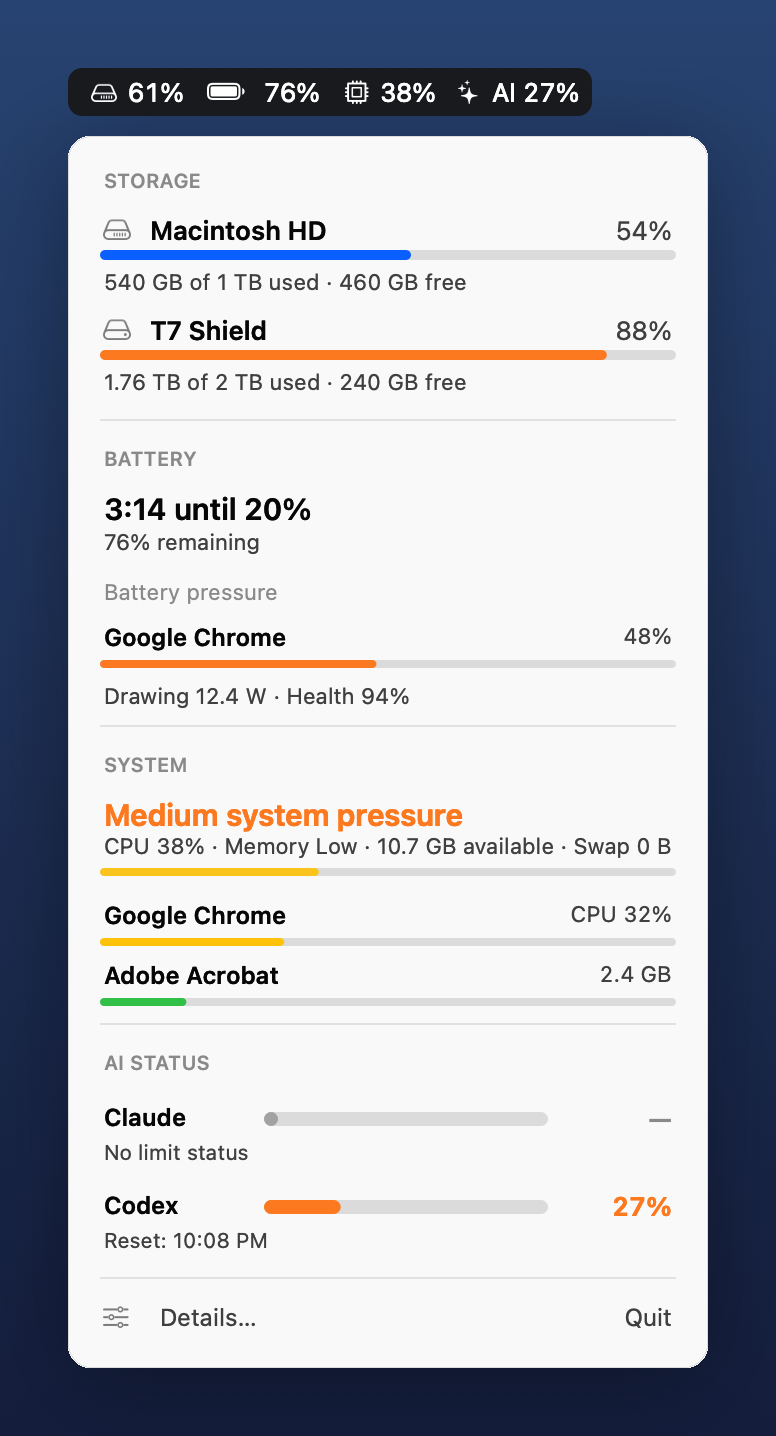
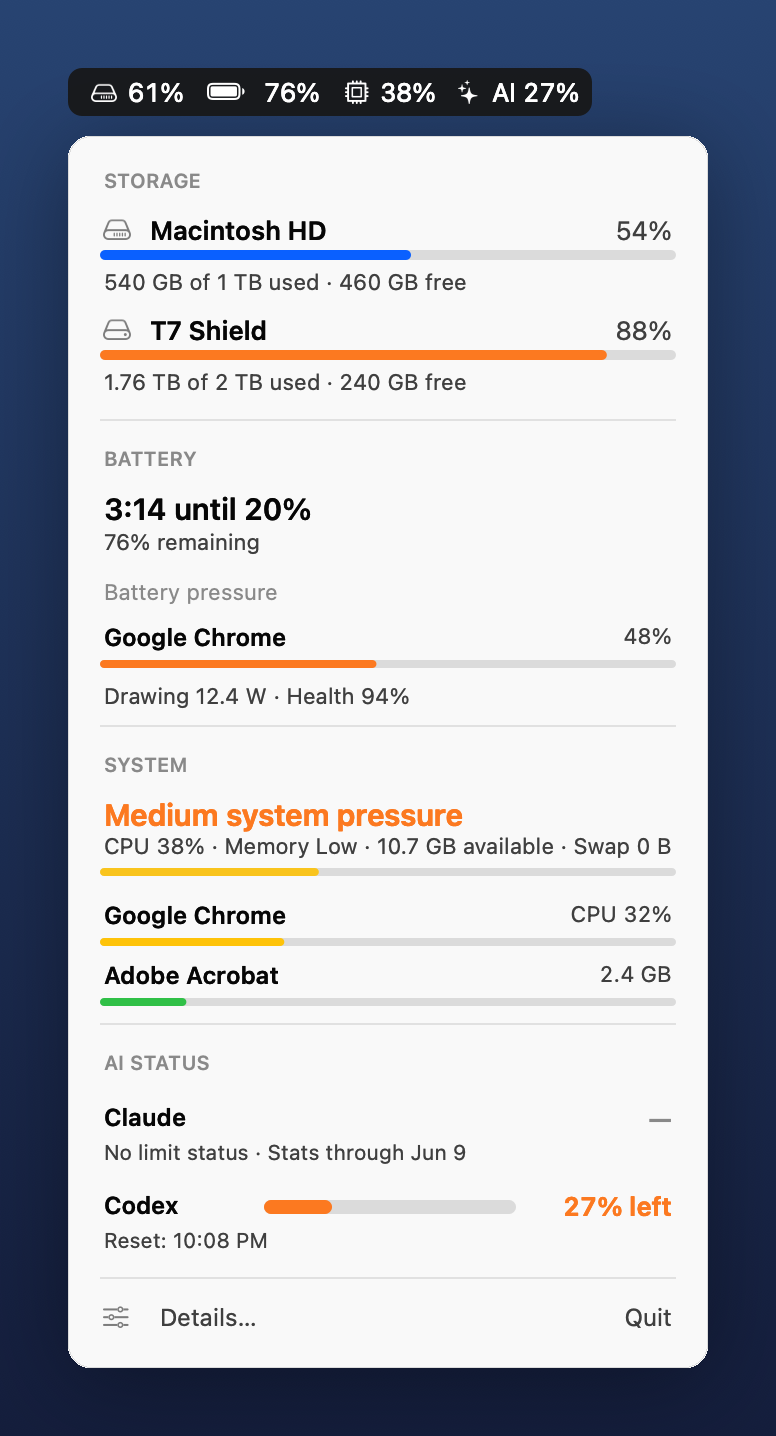
Make AI numbers human-meaningful and the limit gauge unambiguous
The verified-correct total_tokens count is ~94% cached context re-reads
(measured: 209.6M total vs 12.4M fresh today), so it failed the sniff
test as a headline. Today/7d now report fresh tokens (non-cached input
+ output) with the cache-inclusive total alongside in Details and
--dump.

The limit gauge read backwards: a bare '10%' next to a nearly-empty bar
looks like 10% used. The reading is now labeled '10% left', providers
with no limit data get no gauge instead of an empty one, and Claude's
popover row surfaces its stats-cache staleness ('Stats through Jun 9')
instead of hiding it in Details.

Changed region(s): [[0.3402, 0.766, 0.7113, 0.8273], [0.6495, 0.8273, 0.866, 0.8579]]

diff --git a/Sources/main.m b/Sources/main.m
@@ -412,6 +412,7 @@ static NSColor *CPUColor(double cpu) {
 @property BOOL available, stale, limitStatusAvailable;
 @property double remainingFraction;
 @property long long todayTokens, weekTokens, todayMessages, todaySessions, todayToolCalls, weekSessions;
+@property long long todayTokensAll, weekTokensAll;   // incl. cached context re-reads
 @property (strong) NSDate *lastActivity;
 @property (copy) NSArray<NSDictionary *> *models;
 @end
@@ -725,7 +726,7 @@ static NSDate *FileMTime(NSString *path) {
 
 @implementation AIReader {
     NSMutableDictionary<NSString *, NSNumber *> *_offsets;   // rollout basename -> consumed bytes
-    NSMutableDictionary<NSString *, NSNumber *> *_days;      // local "yyyy-MM-dd" -> tokens
+    NSMutableDictionary<NSString *, NSDictionary *> *_days;  // local "yyyy-MM-dd" -> @{@"t":, @"f":}
     NSDictionary *_limits;          // newest rate_limits seen
     NSString *_limitsTs;
     NSDate *_dbStamp;               // change detection for the sqlite extras
@@ -867,10 +868,15 @@ static NSDate *FileMTime(NSString *path) {
     u.statusReason = @"Codex session logs do not carry limit status";
 
     NSString *today = LocalDateString(NSDate.date);
-    u.todayTokens = [_days[today] longLongValue];
-    long long week = 0;
-    for (NSNumber *tokens in _days.allValues) week += tokens.longLongValue;   // _days is pruned to 7 days
+    u.todayTokens = [_days[today][@"f"] longLongValue];       // fresh = the headline
+    u.todayTokensAll = [_days[today][@"t"] longLongValue];
+    long long week = 0, weekAll = 0;
+    for (NSDictionary *day in _days.allValues) {              // _days is pruned to 7 days
+        week += [day[@"f"] longLongValue];
+        weekAll += [day[@"t"] longLongValue];
+    }
     u.weekTokens = week;
+    u.weekTokensAll = weekAll;
     u.todaySessions = _sessionsToday;
     u.lastActivity = _lastActivity;
     if (u.models.count) u.topModel = u.models.firstObject[@"name"];
@@ -1128,8 +1134,8 @@ static void PSChanged(void *ctx) { [(__bridge Controller *)ctx refresh]; }
         NSArray<AIUsage *> *usage = [self->_aiReader read];
         NSMutableString *sig = [NSMutableString string];
         for (AIUsage *u in usage)
-            [sig appendFormat:@"%@|%d|%d|%lld|%lld|%lld|%.4f|%@|%@;", u.name, u.available,
-             u.limitStatusAvailable, u.todayTokens, u.weekTokens, u.todaySessions,
+            [sig appendFormat:@"%@|%d|%d|%lld|%lld|%lld|%lld|%.4f|%@|%@;", u.name, u.available,
+             u.limitStatusAvailable, u.todayTokens, u.todayTokensAll, u.weekTokens, u.todaySessions,
              u.remainingFraction, u.resetText, u.statusText];
         dispatch_async(dispatch_get_main_queue(), ^{
             self->_aiLoading = NO;
@@ -1344,6 +1350,8 @@ static void PSChanged(void *ctx) { [(__bridge Controller *)ctx refresh]; }
 - (NSString *)aiStatusSubtext:(AIUsage *)u {
     if (u.limitStatusAvailable) return [self compactResetText:u];
     if (!u.available) return @"No local state";
+    if (u.stale && u.statusText.length)   // e.g. Claude's cache computes through yesterday
+        return [NSString stringWithFormat:@"No limit status · %@", u.statusText];
     return @"No limit status";
 }
 
@@ -1357,19 +1365,25 @@ static void PSChanged(void *ctx) { [(__bridge Controller *)ctx refresh]; }
 - (NSView *)aiStatusRow:(AIUsage *)u width:(CGFloat)width pad:(CGFloat)pad at:(CGFloat)y {
     NSView *row = [[NSView alloc] initWithFrame:NSMakeRect(0, y, width, 44)];
     CGFloat inner = width - 2*pad;
-    CGFloat rightW = 54;
+    CGFloat rightW = 70;
     CGFloat titleW = 74;
     CGFloat barX = pad + titleW + 8;
     CGFloat barW = inner - titleW - rightW - 18;
+    BOOL hasGauge = u.limitStatusAvailable && u.remainingFraction >= 0;
     NSString *title = u.name ?: @"AI";
     [row addSubview:[self text:title font:[NSFont systemFontOfSize:12 weight:NSFontWeightSemibold] color:nil
                           at:NSMakeRect(pad, 25, titleW, 15) align:NSTextAlignmentLeft]];
-    [row addSubview:[self text:[self aiPercentText:u] font:[NSFont monospacedDigitSystemFontOfSize:13 weight:NSFontWeightSemibold]
+    // "left" makes the direction unambiguous — a bare "10%" reads as used just as
+    // easily as remaining.
+    NSString *rightText = hasGauge ? [[self aiPercentText:u] stringByAppendingString:@" left"] : @"—";
+    [row addSubview:[self text:rightText font:[NSFont monospacedDigitSystemFontOfSize:13 weight:NSFontWeightSemibold]
                          color:[self aiStatusColor:u] at:NSMakeRect(width-pad-rightW, 23, rightW, 17) align:NSTextAlignmentRight]];
-    Gauge *g = [[Gauge alloc] initWithFrame:NSMakeRect(barX, 28, MAX(20, barW), 7)];
-    g.fraction = u.limitStatusAvailable && u.remainingFraction >= 0 ? u.remainingFraction : 0;
-    g.color = [self aiStatusColor:u];
-    [row addSubview:g];
+    if (hasGauge) {   // no gauge at all beats an empty gauge that implies "0% used"
+        Gauge *g = [[Gauge alloc] initWithFrame:NSMakeRect(barX, 28, MAX(20, barW), 7)];
+        g.fraction = u.remainingFraction;
+        g.color = [self aiStatusColor:u];
+        [row addSubview:g];
+    }
     [row addSubview:[self text:[self aiStatusSubtext:u] font:[NSFont systemFontOfSize:10.5] color:NSColor.secondaryLabelColor
                           at:NSMakeRect(pad, 7, inner, 14) align:NSTextAlignmentLeft]];
     return row;
@@ -1832,10 +1846,14 @@ static void PSChanged(void *ctx) { [(__bridge Controller *)ctx refresh]; }
             [self addDetailKey:@"Source" value:u.source ?: @"unknown" to:root y:&y width:kDetailW];
             continue;
         }
-        [self addDetailKey:@"Today" value:u.todayTokens > 0 ? FmtTokenCount(u.todayTokens) : @"No local usage today"
-                        to:root y:&y width:kDetailW];
-        [self addDetailKey:@"7 days" value:u.weekTokens > 0 ? FmtTokenCount(u.weekTokens) : @"No local usage"
-                        to:root y:&y width:kDetailW];
+        NSString *todayVal = u.todayTokens > 0 ? FmtTokenCount(u.todayTokens) : @"No local usage today";
+        if (u.todayTokensAll > u.todayTokens)
+            todayVal = [todayVal stringByAppendingFormat:@" · %@ incl. cached context", FmtCompact(u.todayTokensAll)];
+        [self addDetailKey:@"Today" value:todayVal to:root y:&y width:kDetailW];
+        NSString *weekVal = u.weekTokens > 0 ? FmtTokenCount(u.weekTokens) : @"No local usage";
+        if (u.weekTokensAll > u.weekTokens)
+            weekVal = [weekVal stringByAppendingFormat:@" · %@ incl. cached context", FmtCompact(u.weekTokensAll)];
+        [self addDetailKey:@"7 days" value:weekVal to:root y:&y width:kDetailW];
         if (u.todaySessions > 0 || u.weekSessions > 0) {
             NSString *sessions = [NSString stringWithFormat:@"%lld today · %lld in 7d", u.todaySessions, u.weekSessions];
             [self addDetailKey:@"Sessions" value:sessions to:root y:&y width:kDetailW];
@@ -2047,12 +2065,18 @@ static void Dump(void) {
             reset = (u.resetText.length && ![u.resetText isEqualToString:@"Not exposed locally"])
                 ? [NSString stringWithFormat:@"resets %@", u.resetText] : @"reset not provided";
         }
+        NSString *today = FmtTokenCount(u.todayTokens);
+        if (u.todayTokensAll > u.todayTokens)
+            today = [today stringByAppendingFormat:@" (%@ incl. cached)", FmtCompact(u.todayTokensAll)];
+        NSString *week = FmtTokenCount(u.weekTokens);
+        if (u.weekTokensAll > u.weekTokens)
+            week = [week stringByAppendingFormat:@" (%@ incl. cached)", FmtCompact(u.weekTokensAll)];
         printf("  %-7s %s · %s · today %s · 7d %s\n",
                u.name.UTF8String,
                remaining.UTF8String,
                reset.UTF8String,
-               FmtTokenCount(u.todayTokens).UTF8String,
-               FmtTokenCount(u.weekTokens).UTF8String);
+               today.UTF8String,
+               week.UTF8String);
     }
 }
 

diff --git a/Tests/test_pure.m b/Tests/test_pure.m
@@ -70,6 +70,7 @@ int main(void) {
         NSDictionary *ev = ParseTokenCountLine(tok);
         check(ev != nil, @"token_count line parses");
         check([ev[@"tokens"] longLongValue] == 74706, @"per-turn token delta extracted");
+        check([ev[@"fresh"] longLongValue] == 74038 - 63360 + 668, @"fresh excludes cached input");
         check([ev[@"ts"] isEqual:@"2026-06-10T09:04:20.778Z"], @"timestamp extracted");
         check([ev[@"limits"][@"plan_type"] isEqual:@"prolite"], @"rate limits captured");
         check(ParseTokenCountLine(@"{\"timestamp\":\"t\",\"payload\":{\"type\":\"user_message\"}}") == nil,
@@ -81,16 +82,19 @@ int main(void) {
         // --- AccumulateTokenEvents ---
         NSTimeZone *tz = [NSTimeZone timeZoneForSecondsFromGMT:10 * 3600];
         NSDictionary *acc = AccumulateTokenEvents(nil, @[
-            @{@"ts": @"2026-06-09T20:00:00Z", @"tokens": @100},
-            @{@"ts": @"2026-06-09T10:00:00Z", @"tokens": @50},
-            @{@"ts": @"2026-06-10T01:00:00.500Z", @"tokens": @7, @"limits": @{@"plan_type": @"prolite"}},
+            @{@"ts": @"2026-06-09T20:00:00Z", @"tokens": @100, @"fresh": @10},
+            @{@"ts": @"2026-06-09T10:00:00Z", @"tokens": @50, @"fresh": @5},
+            @{@"ts": @"2026-06-10T01:00:00.500Z", @"tokens": @7, @"fresh": @2,
+              @"limits": @{@"plan_type": @"prolite"}},
         ], tz);
-        check([acc[@"days"][@"2026-06-10"] longLongValue] == 107, @"UTC events bucket into local day");
-        check([acc[@"days"][@"2026-06-09"] longLongValue] == 50, @"earlier event stays previous local day");
+        check([acc[@"days"][@"2026-06-10"][@"t"] longLongValue] == 107, @"UTC events bucket into local day");
+        check([acc[@"days"][@"2026-06-10"][@"f"] longLongValue] == 12, @"fresh totals accumulate per day");
+        check([acc[@"days"][@"2026-06-09"][@"t"] longLongValue] == 50, @"earlier event stays previous local day");
         check([acc[@"latestLimits"][@"plan_type"] isEqual:@"prolite"], @"latest limits surfaced");
         NSDictionary *acc2 = AccumulateTokenEvents(acc[@"days"],
-            @[@{@"ts": @"2026-06-10T02:00:00Z", @"tokens": @3}], tz);
-        check([acc2[@"days"][@"2026-06-10"] longLongValue] == 110, @"accumulation merges into existing days");
+            @[@{@"ts": @"2026-06-10T02:00:00Z", @"tokens": @3, @"fresh": @1}], tz);
+        check([acc2[@"days"][@"2026-06-10"][@"t"] longLongValue] == 110, @"accumulation merges into existing days");
+        check([acc2[@"days"][@"2026-06-10"][@"f"] longLongValue] == 13, @"fresh merges too");
 
         // --- PickLimitWindow ---
         NSDictionary *limits = @{@"primary": @{@"used_percent": @83.0, @"window_minutes": @300, @"resets_at": @2000},

diff --git a/tools/mockup.m b/tools/mockup.m
@@ -128,21 +128,23 @@ static NSTextField *L(NSString *s, NSFont *f, NSColor *c, NSRect fr, NSTextAlign
     hdr(@"AI Status"); y += 22;
     void (^ai)(NSString *, NSString *, NSString *, double, NSColor *) = ^(NSString *name, NSString *right, NSString *detail, double frac, NSColor *color){
         NSView *row = [[NSView alloc] initWithFrame:NSMakeRect(0, y, kW, 44)];
-        CGFloat titleW=74, rightW=54, barX=kPad+titleW+8, barW=inner-titleW-rightW-18;
+        CGFloat titleW=74, rightW=70, barX=kPad+titleW+8, barW=inner-titleW-rightW-18;
         [row addSubview:L(name, [NSFont systemFontOfSize:12 weight:NSFontWeightSemibold], nil,
                           NSMakeRect(kPad, 25, titleW, 15), NSTextAlignmentLeft)];
         [row addSubview:L(right, [NSFont monospacedDigitSystemFontOfSize:13 weight:NSFontWeightSemibold],
                           color, NSMakeRect(kW-kPad-rightW, 23, rightW, 17), NSTextAlignmentRight)];
-        Gauge *g=[[Gauge alloc] initWithFrame:NSMakeRect(barX, 28, barW, 7)]; g.fraction=frac; g.color=color;
-        [row addSubview:g];
+        if (frac >= 0) {
+            Gauge *g=[[Gauge alloc] initWithFrame:NSMakeRect(barX, 28, barW, 7)]; g.fraction=frac; g.color=color;
+            [row addSubview:g];
+        }
         [row addSubview:L(detail, [NSFont systemFontOfSize:10.5], NSColor.secondaryLabelColor,
                           NSMakeRect(kPad, 7, inner, 14), NSTextAlignmentLeft)];
         [card addSubview:row]; y += 44;
     };
     // Codex's gauge is read from its own session logs; Claude has no local quota
-    // source, so its gauge is empty unless ~/.glancebar/ai-status.json provides one.
-    ai(@"Claude", @"—", @"No limit status", 0.0, NSColor.tertiaryLabelColor);
-    ai(@"Codex", @"27%", @"Reset: 10:08 PM", 0.27, NSColor.systemOrangeColor);
+    // source, so its row carries no gauge unless ~/.glancebar/ai-status.json provides one.
+    ai(@"Claude", @"—", @"No limit status · Stats through Jun 9", -1, NSColor.tertiaryLabelColor);
+    ai(@"Codex", @"27% left", @"Reset: 10:08 PM", 0.27, NSColor.systemOrangeColor);
 
     y += 4;
     NSBox *d4=[[NSBox alloc] initWithFrame:NSMakeRect(kPad,y,inner,1)]; d4.boxType=NSBoxSeparator; [card addSubview:d4]; y+=9;

diff --git a/Sources/pure.m b/Sources/pure.m
@@ -96,6 +96,13 @@ NSDictionary *ParseTokenCountLine(NSString *line) {
     NSMutableDictionary *out = [NSMutableDictionary dictionary];
     out[@"ts"] = ts;
     out[@"tokens"] = total ?: @0;
+    // ~94% of total_tokens is cached context re-read every turn; fresh = what a human
+    // would call "tokens used".
+    long long input = [last[@"input_tokens"] longLongValue];
+    long long cachedInput = [last[@"cached_input_tokens"] longLongValue];
+    long long output = [last[@"output_tokens"] longLongValue];
+    long long fresh = (input > cachedInput ? input - cachedInput : 0) + output;
+    out[@"fresh"] = @(fresh);
     if (limits) out[@"limits"] = limits;
     return out;
 }
@@ -111,7 +118,7 @@ static NSDate *DateFromISO8601(NSString *s) {
     return [fractional dateFromString:s] ?: [plain dateFromString:s];
 }
 
-NSDictionary *AccumulateTokenEvents(NSDictionary<NSString *, NSNumber *> *existingDays,
+NSDictionary *AccumulateTokenEvents(NSDictionary<NSString *, NSDictionary *> *existingDays,
                                     NSArray<NSDictionary *> *events, NSTimeZone *tz) {
     NSMutableDictionary *days = existingDays ? [existingDays mutableCopy] : [NSMutableDictionary dictionary];
     NSDictionary *latestLimits = nil;
@@ -125,9 +132,12 @@ NSDictionary *AccumulateTokenEvents(NSDictionary<NSString *, NSNumber *> *existi
         NSDate *date = ts ? DateFromISO8601(ts) : nil;
         if (!date) continue;
         long long tokens = [e[@"tokens"] longLongValue];
-        if (tokens > 0) {
+        long long fresh = [e[@"fresh"] longLongValue];
+        if (tokens > 0 || fresh > 0) {
             NSString *day = [dayFmt stringFromDate:date];
-            days[day] = @([days[day] longLongValue] + tokens);
+            NSDictionary *cur = days[day];
+            days[day] = @{@"t": @([cur[@"t"] longLongValue] + tokens),
+                          @"f": @([cur[@"f"] longLongValue] + fresh)};
         }
         if (e[@"limits"] && (!latestTs || [ts compare:latestTs] == NSOrderedDescending)) {
             latestTs = ts;

diff --git a/Sources/pure.h b/Sources/pure.h
@@ -39,13 +39,15 @@ NSArray<NSDictionary *> *ParseHogs(NSString *topOutput, int topN,
 // threads.tokens_used column is a lifetime counter and cannot be windowed.
 
 // Parses one rollout line. Returns nil unless it is a token_count event:
-// @{@"ts": ISO-8601 string, @"tokens": @(per-turn total), @"limits": rate_limits dict (optional)}
+// @{@"ts": ISO-8601 string, @"tokens": @(per-turn total incl. cached context re-reads),
+//   @"fresh": @(non-cached input + output — the humanly meaningful count),
+//   @"limits": rate_limits dict (optional)}
 NSDictionary *ParseTokenCountLine(NSString *line);
 
-// Buckets parsed events into per-local-day token totals, merged over existingDays.
-// Returns @{@"days": @{@"yyyy-MM-dd": @(tokens)}, and when any event carried limits,
-// @"latestLimits": rate_limits dict, @"latestTs": its ISO timestamp}.
-NSDictionary *AccumulateTokenEvents(NSDictionary<NSString *, NSNumber *> *existingDays,
+// Buckets parsed events into per-local-day totals, merged over existingDays.
+// Returns @{@"days": @{@"yyyy-MM-dd": @{@"t": total, @"f": fresh}}, and when any event
+// carried limits, @"latestLimits": rate_limits dict, @"latestTs": its ISO timestamp}.
+NSDictionary *AccumulateTokenEvents(NSDictionary<NSString *, NSDictionary *> *existingDays,
                                     NSArray<NSDictionary *> *events, NSTimeZone *tz);
 
 // Picks the most constrained, still-current window from a Codex rate_limits dict

diff --git a/README.md b/README.md
@@ -79,6 +79,8 @@ battery pressure, system pressure, and AI status to the terminal.
   the most constrained window that is still current. The same per-turn records carry
   exact token deltas, which is how today/7-day totals are computed (the sqlite thread
   store only keeps lifetime counters per thread, which can't be windowed honestly).
+  Headline counts are **fresh tokens** (non-cached input + output); the raw total is
+  ~16× larger because cached context is re-read every turn, and is shown alongside.
   Rollout files are append-only and read incrementally by byte offset on a background
   queue, so the steady-state cost is a handful of `stat` calls. Claude's local stats
   cache (`~/.claude/stats-cache.json`) has usage history but no quota data, so its gauge
